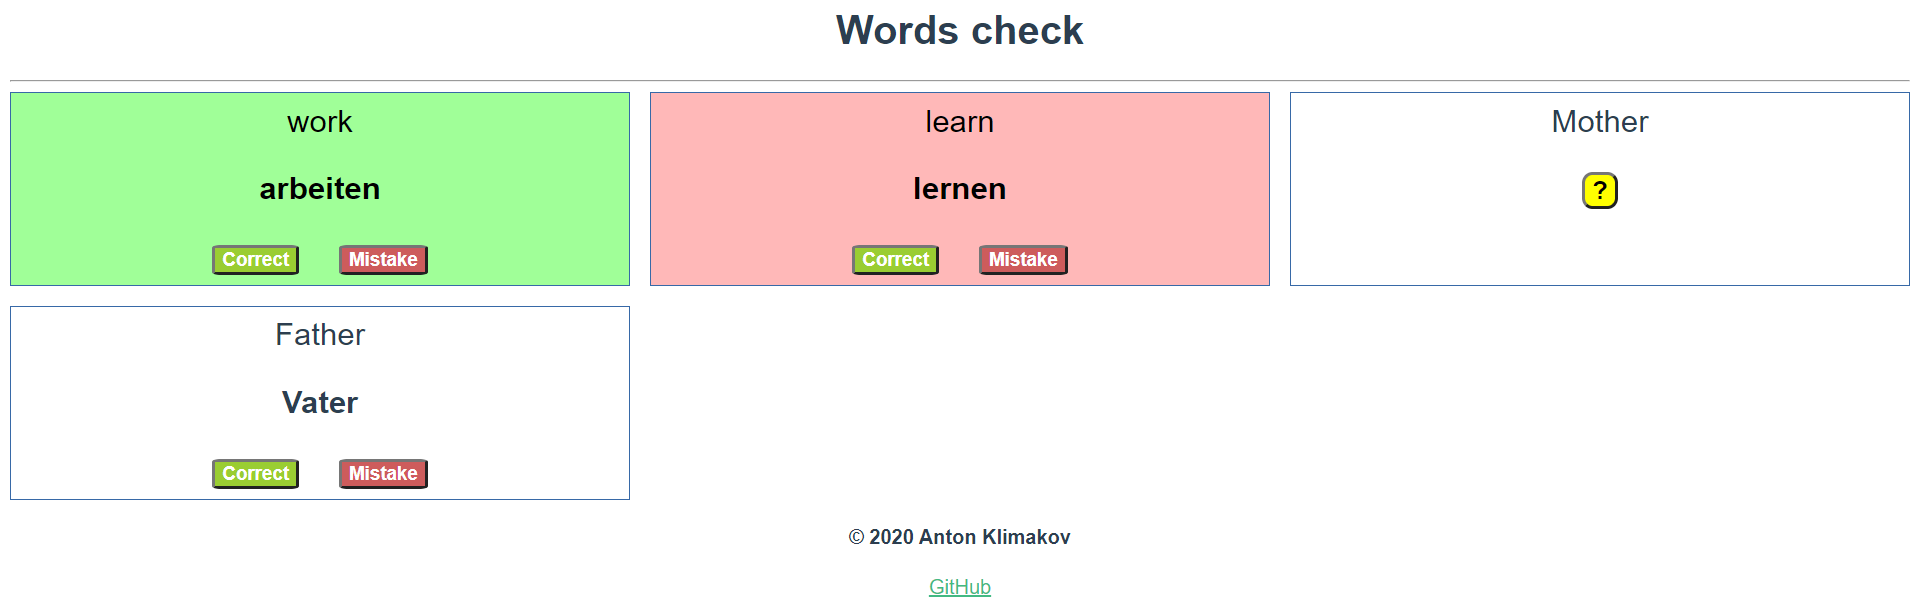
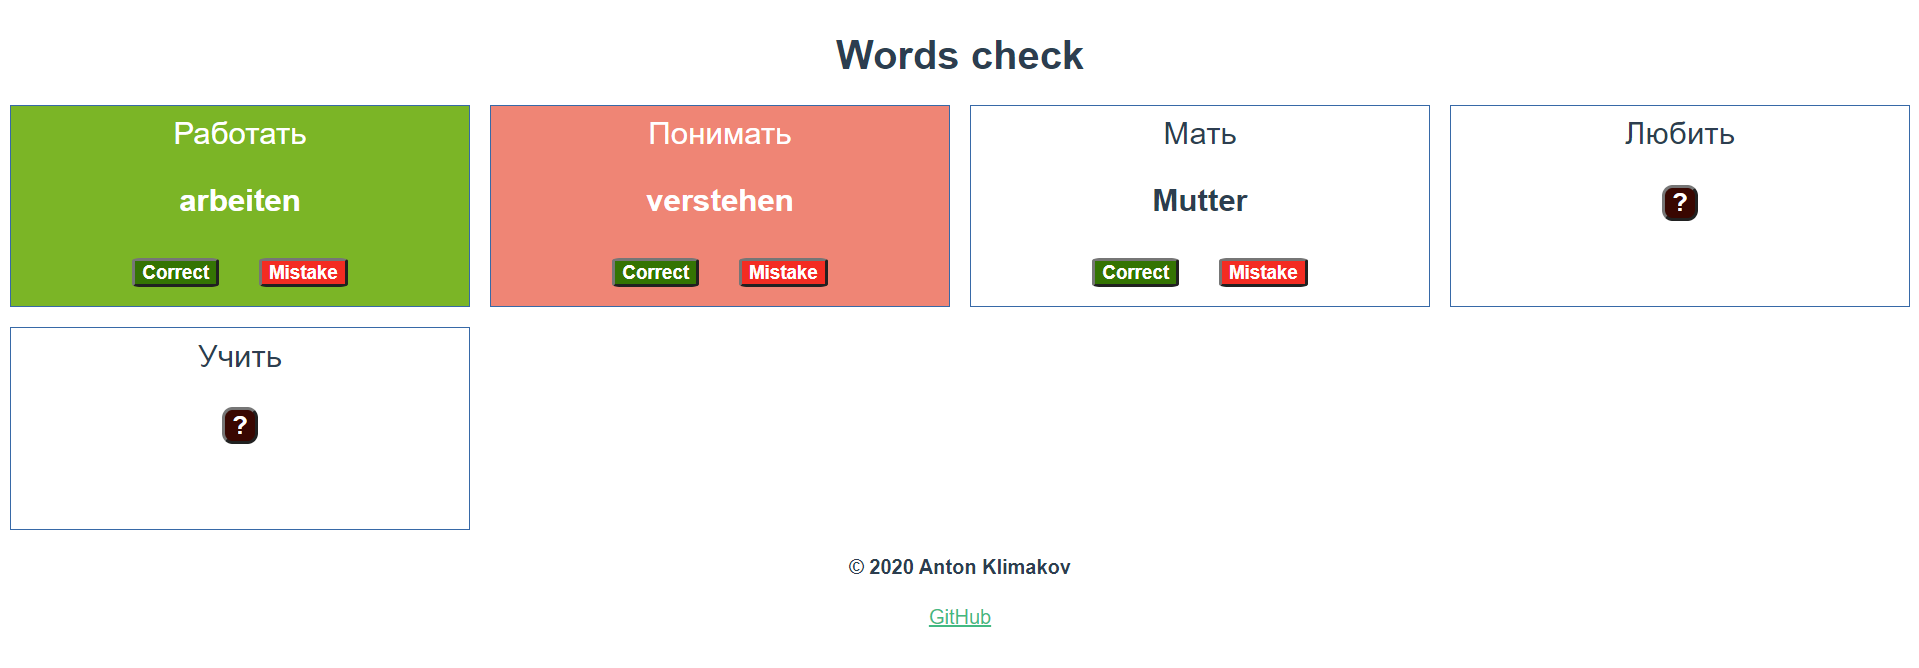
getting words from the server

diff --git a/words-service-ui/src/components/WordItem.vue b/words-service-ui/src/components/WordItem.vue
@@ -1,9 +1,9 @@
 <template>
   <li v-bind:class="getClass()" v-on:click="wordChecked = true">
     <span> {{ word.translation }} </span>
-    <p><b v-if="wordChecked"> {{ word.name }} </b></p>
+    <p><b v-show="wordChecked"> {{ word.name }} </b></p>
     <button class="helpButton" v-if="!wordChecked">&#63;</button>
-    <section v-if="wordChecked">
+    <section v-show="wordChecked">
       <button class="correctButton" v-on:click="clickCorrect">Correct</button>
       <button class="mistakeButton" v-on:click="clickMistake">Mistake</button>
     </section>
@@ -54,28 +54,29 @@ li {
   justify-content: space-between;
   padding: .5rem 2rem;
   font-size: 25px;
+  height: 9rem;
 }
 
 .correct {
-  background: #a0ff98;
-  color: #000;
+  background: #7bb526;
+  color: #fff;
 }
 
 .mistake {
-  background: #ffb8b8;
-  color: #000;
+  background: #ef8575;
+  color: #fff;
 }
 
 .helpButton {
-  background: yellow;
-  color: #000;
+  background: #390701;
+  color: #fff;
   border-radius: 30%;
   font-weight: bold;
   font-size: 20px;
 }
 
 .correctButton {
-  background: yellowgreen;
+  background: #347403;
   color: #fff;
   border-radius: 10%;
   font-weight: bold;
@@ -84,7 +85,7 @@ li {
 }
 
 .mistakeButton {
-  background: indianred;
+  background: #f32c22;
   color: #fff;
   border-radius: 10%;
   font-weight: bold;

diff --git a/words-service-ui/src/App.vue b/words-service-ui/src/App.vue
@@ -1,7 +1,6 @@
 <template>
   <div id="app">
     <h1>Words check</h1>
-    <hr>
     <WordsLayout
         v-bind:words="words"/>
     <Footer/>
@@ -16,13 +15,16 @@ export default {
   name: 'App',
   data() {
     return {
-      words: [
-        {id: 1, name: 'arbeiten', translation: 'work', partOfSpeech: 'Verb', gender: null},
-        {id: 2, name: 'lernen', translation: 'learn', partOfSpeech: 'Verb', gender: null},
-        {id: 3, name: 'Mutter', translation: 'Mother', partOfSpeech: 'Noun', gender: 'FEMININE'},
-        {id: 4, name: 'Vater', translation: 'Father', partOfSpeech: 'Noun', gender: 'MASCULINE'}
-      ]
+      words: []
     }
+  },
+  mounted() {
+    fetch("/api/word/random/5")
+      .then(response => response.json())
+      .then(json => {
+        console.log(json)
+        this.words = json
+      })
   },
   components: {
     WordsLayout, Footer

diff --git a/words-service/src/main/kotlin/ru/morkovka/words/repository/WordRepository.kt b/words-service/src/main/kotlin/ru/morkovka/words/repository/WordRepository.kt
@@ -1,6 +1,12 @@
 package ru.morkovka.words.repository
 
 import org.springframework.data.jpa.repository.JpaRepository
+import org.springframework.data.jpa.repository.Query
+import org.springframework.data.repository.query.Param
 import ru.morkovka.words.entity.Word
 
-interface WordRepository : JpaRepository<Word, Long>
+interface WordRepository : JpaRepository<Word, Long> {
+
+    @Query(nativeQuery = true, value = "SELECT * FROM word ORDER BY random() LIMIT :n")
+    fun getRandomN(@Param("n") n: Int): MutableList<Word>
+}

diff --git a/words-service/src/main/kotlin/ru/morkovka/words/interceptor/LogRequestInterceptor.kt b/words-service/src/main/kotlin/ru/morkovka/words/interceptor/LogRequestInterceptor.kt
@@ -15,8 +15,9 @@ class LogRequestInterceptor : HandlerInterceptorAdapter() {
 
     @Throws(Exception::class)
     override fun preHandle(request: HttpServletRequest, response: HttpServletResponse, handler: Any): Boolean {
-        logger.info("[REQUEST] [${request.method}] ${request.requestURI} [${getParams(request)}]")
-
+        if (request.requestURI.startsWith("/api")) {
+            logger.info("[REQUEST] [${request.method}] ${request.requestURI} [${getParams(request)}]")
+        }
         return true
     }
 

diff --git a/words-service/src/main/kotlin/ru/morkovka/words/controller/WordController.kt b/words-service/src/main/kotlin/ru/morkovka/words/controller/WordController.kt
@@ -7,6 +7,7 @@ import ru.morkovka.words.entity.Word
 import ru.morkovka.words.service.WordService
 
 @RestController
+@CrossOrigin
 @RequestMapping("/api/word")
 class WordController {
 
@@ -29,4 +30,7 @@ class WordController {
 
     @DeleteMapping("{id}")
     fun delete(@PathVariable id: Long) = wordService.delete(id)
+
+    @GetMapping("random/{n}")
+    fun getRandomN(@PathVariable n: Int) = wordService.getRandomN(n)
 }

diff --git a/words-service/src/main/kotlin/ru/morkovka/words/entity/Word.kt b/words-service/src/main/kotlin/ru/morkovka/words/entity/Word.kt
@@ -17,8 +17,10 @@ data class Word(
     val translation: String,
 
     @Column(name = "part_of_speech")
+    @Enumerated(EnumType.STRING)
     val partOfSpeech: PartOfSpeech,
 
     @Column
+    @Enumerated(EnumType.STRING)
     val gender: Gender
 )

diff --git a/words-service/src/main/kotlin/ru/morkovka/words/service/impl/WordServiceImpl.kt b/words-service/src/main/kotlin/ru/morkovka/words/service/impl/WordServiceImpl.kt
@@ -26,5 +26,8 @@ class WordServiceImpl : WordService {
     override fun delete(id: Long) =
         wordRepository.deleteById(id)
 
+    override fun getRandomN(n: Int): MutableList<Word> =
+        wordRepository.getRandomN(n)
+
 
 }

diff --git a/words-service/src/main/kotlin/ru/morkovka/words/service/WordService.kt b/words-service/src/main/kotlin/ru/morkovka/words/service/WordService.kt
@@ -12,4 +12,6 @@ interface WordService {
     fun update(id: Long, word: Word): Word
 
     fun delete(id: Long)
+
+    fun getRandomN (n: Int): MutableList<Word>
 }

diff --git a/words-service-ui/src/components/WordsLayout.vue b/words-service-ui/src/components/WordsLayout.vue
@@ -21,7 +21,7 @@ export default {
   ],
   data() {
     return {
-      numberOfColumns: 3
+      numberOfColumns: 4
     }
   },
   computed: {
